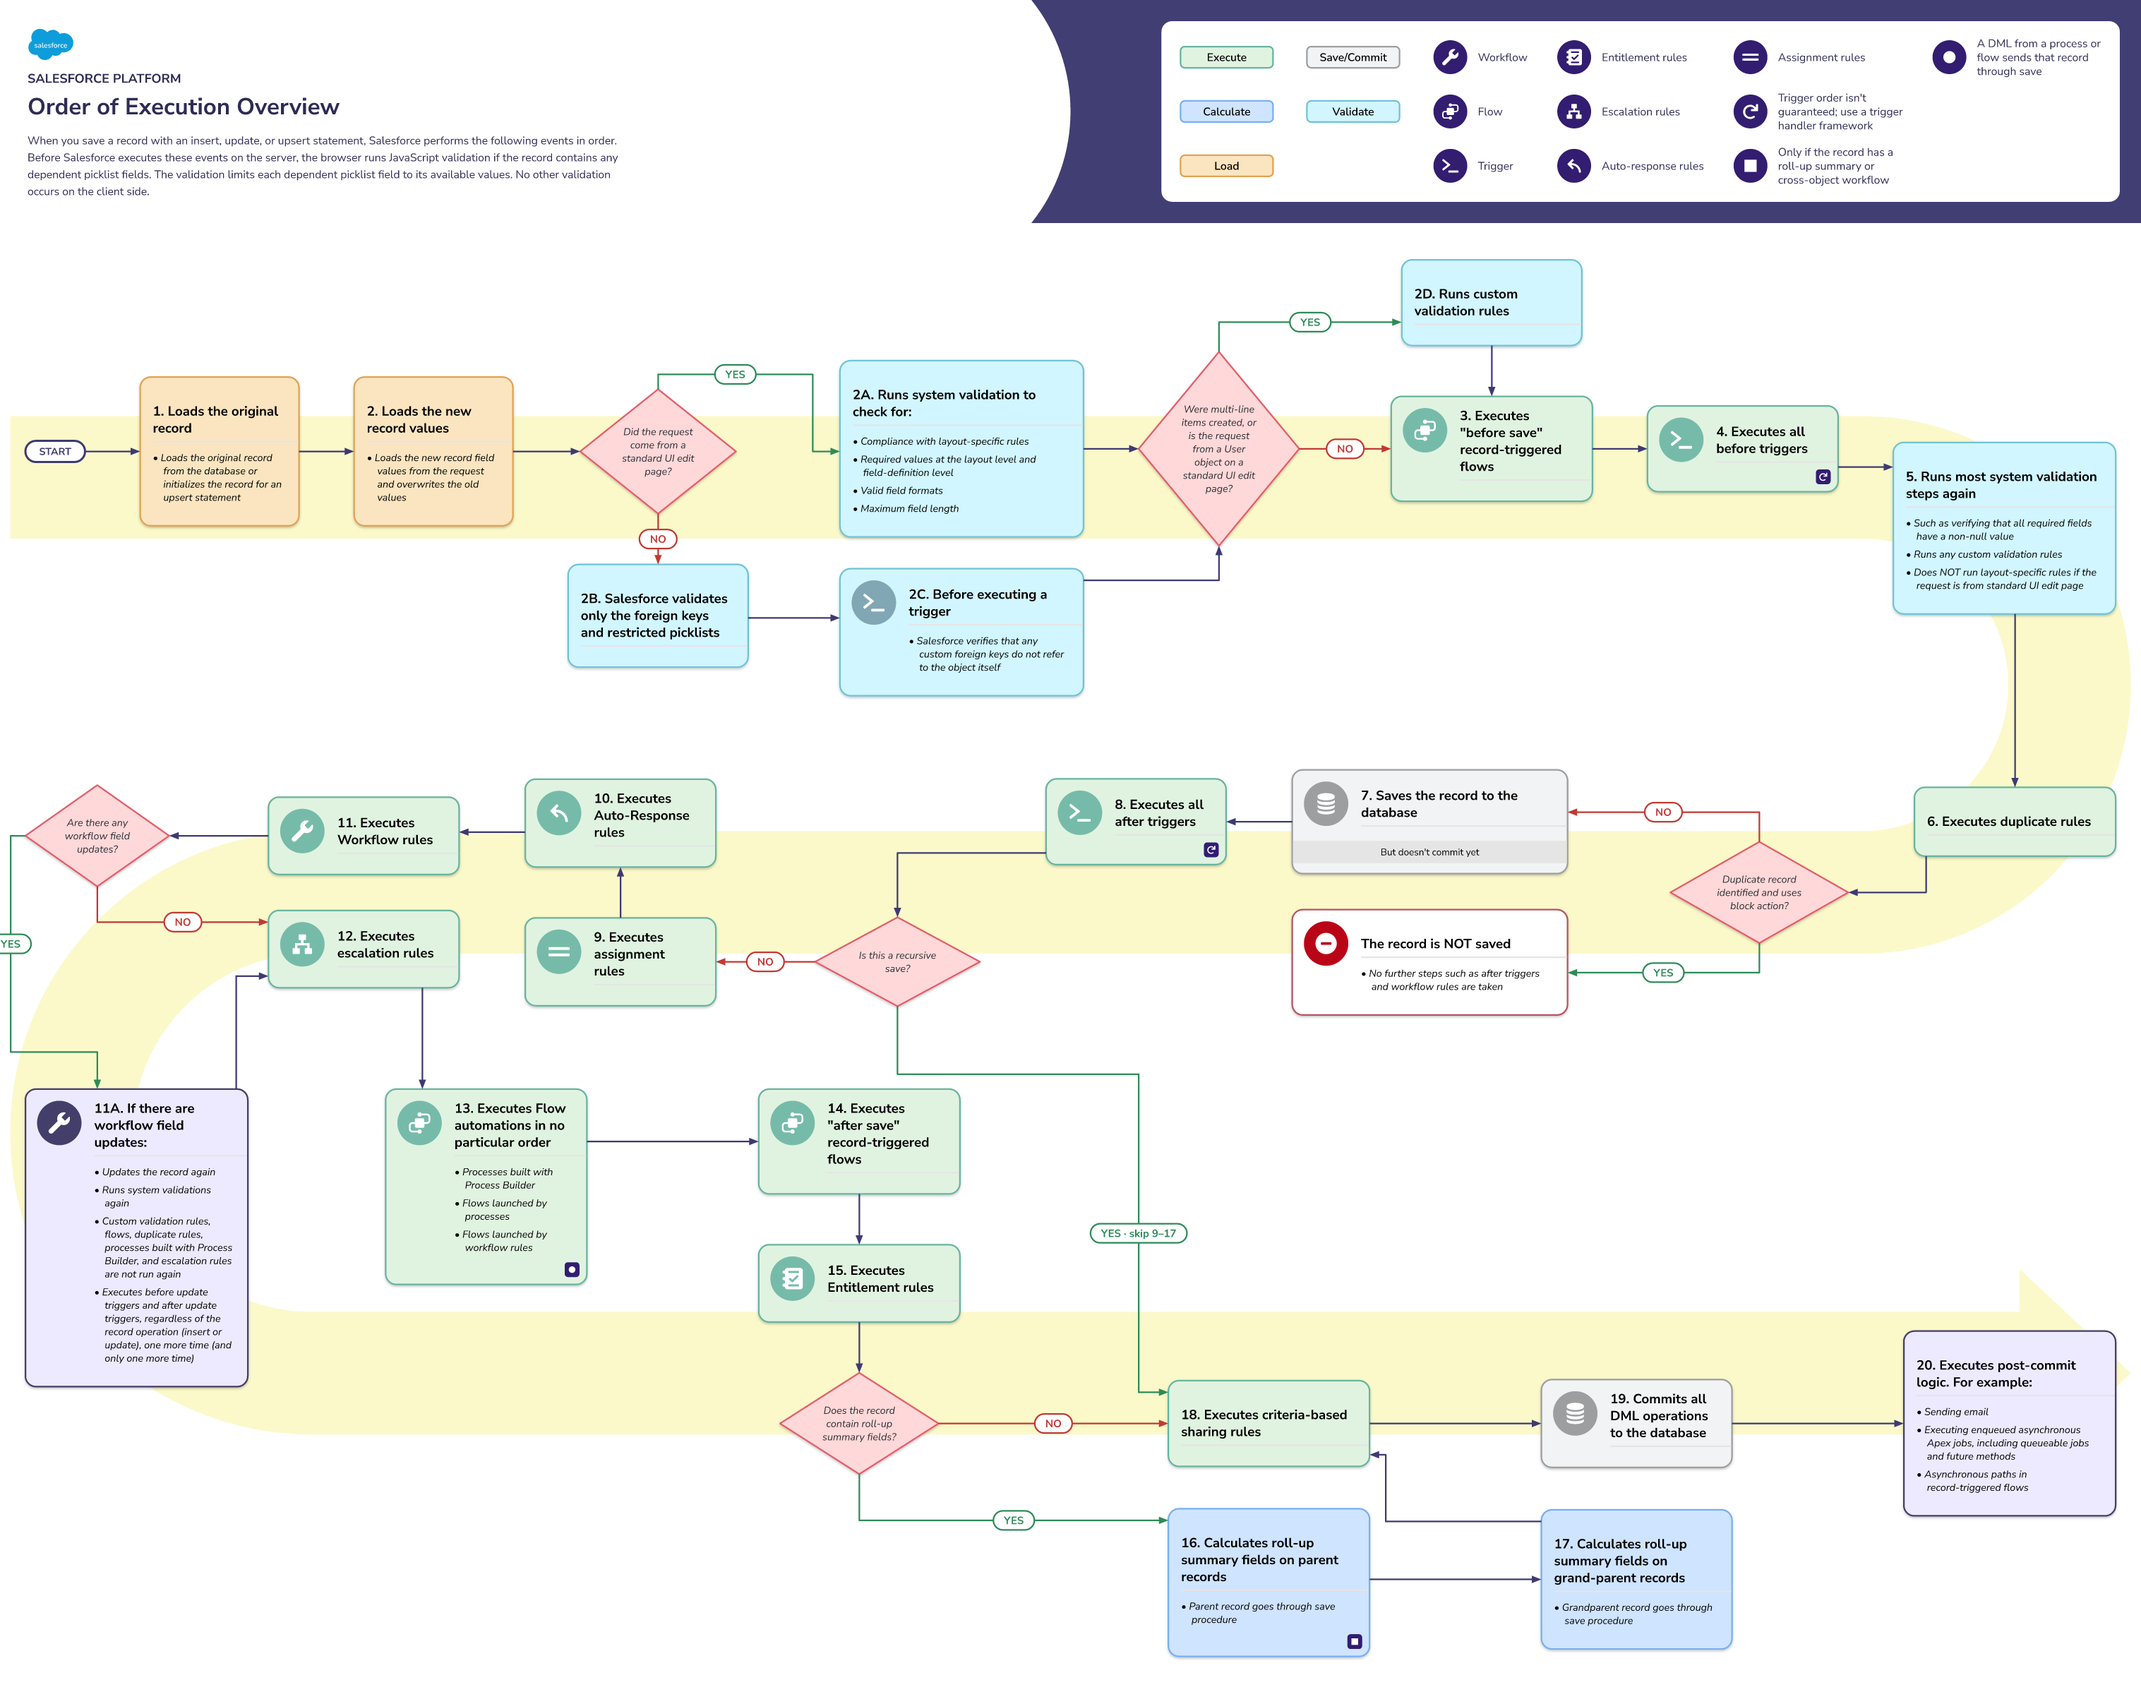
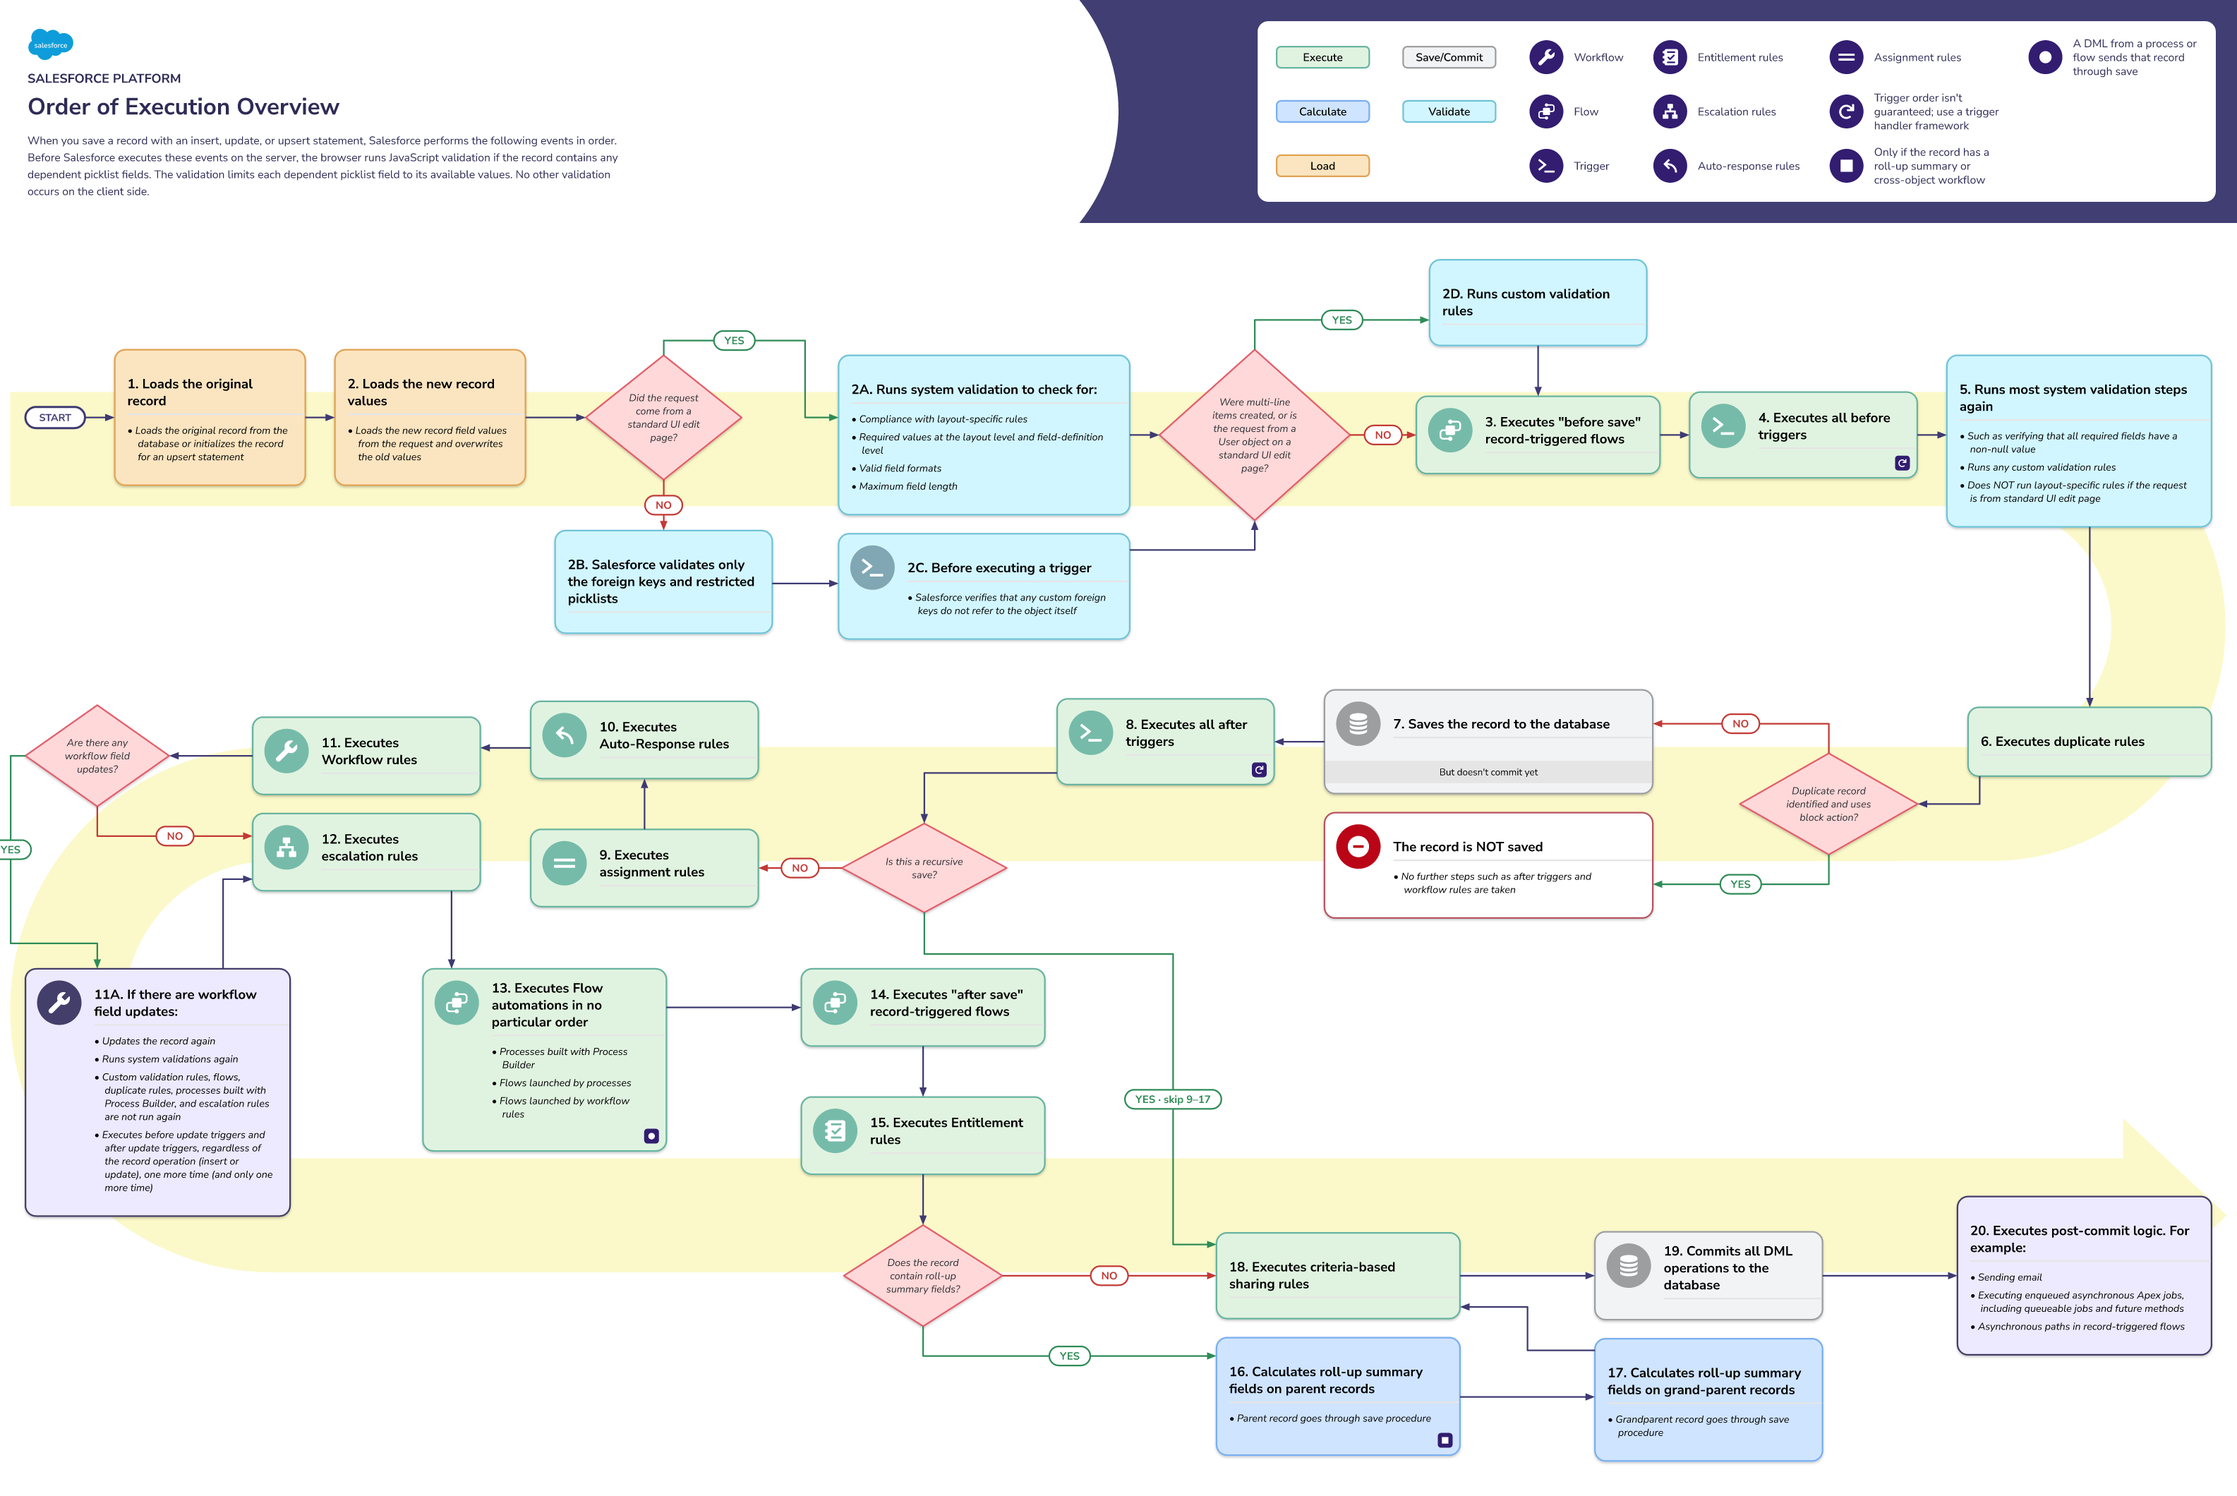
More compact order of execution: tighter gaps, wider cards; explicit row gaps honoured down to line clearance; key width floor measures wrapped labels
Claude-Session: https://claude.ai/code/session_012tbLD3E1bNVEkpSjtvedpe

diff --git a/src/layout.ts b/src/layout.ts
@@ -268,6 +268,9 @@ export function pillSize(label: string): { w: number; h: number; lines: string[]
 /** Gap needed between children i and i+1 of `parent`, given the connections crossing it. */
 function crossingGaps(parent: LNode, axis: 'x' | 'y', base: number, edges: ConnectionInput[], nodes: Map<string, LNode>): number[] {
   const gaps = parent.children.slice(1).map(() => base);
+  // an explicit gap between side-by-side items is honoured down to what a line really
+  // needs (its clearance either side); vertical gaps keep room for labels and turns
+  const tight = axis === 'x' && parent.input.gap !== undefined;
   for (const e of edges) {
     const a = nodes.get(e.from);
     const b = nodes.get(e.to);
@@ -277,10 +280,11 @@ function crossingGaps(parent: LNode, axis: 'x' | 'y', base: number, edges: Conne
     if (ia < 0 || ib < 0 || ia === ib) continue;
     const pill = e.label ? pillSize(e.label) : { w: 0, h: 0 };
     const step = e.step ? X.stepSize + 6 : 0;
-    const lineRoom = 2 * X.clearance + (axis === 'x' ? 24 : 20);
+    const lineRoom = tight ? Math.max(base, 2 * X.clearance) : 2 * X.clearance + (axis === 'x' ? 24 : 20);
+    const labelGap = tight ? X.labelGap / 2 : X.labelGap;
     // only a connector between neighbours puts its pill in this gap; longer ones just pass through
     const labelled = Math.abs(ia - ib) === 1 && (e.label || e.step);
-    const need = !labelled ? lineRoom : axis === 'x' ? Math.max(lineRoom, pill.w + step + 2 * X.labelGap) : Math.max(lineRoom, Math.max(pill.h, X.stepSize) + 30);
+    const need = !labelled ? lineRoom : axis === 'x' ? Math.max(lineRoom, pill.w + step + 2 * labelGap) : Math.max(lineRoom, Math.max(pill.h, X.stepSize) + 30);
     for (let i = Math.min(ia, ib); i < Math.max(ia, ib); i++) gaps[i] = Math.max(gaps[i], need);
   }
   return gaps;
@@ -727,7 +731,7 @@ function layoutHeader(input: DiagramInput, width: number, entries: KeyEntry[], o
 
 function headerMinWidth(entries: KeyEntry[]): number {
   const keyNeed = entries.length
-    ? 2 * H.keyPad + Math.min(entries.length, 4) * (Math.max(...entries.map((e) => 42 + measure(e.label, H.keyLabelSize, 400))) + H.keyColGap)
+    ? 2 * H.keyPad + Math.min(entries.length, 4) * (Math.max(...entries.map((e) => 42 + Math.max(...e.lines.map((l) => measure(l, H.keyLabelSize, 400))))) + H.keyColGap)
     : 0;
   return H.padX + 360 + 90 + keyNeed + H.keyInset;
 }
